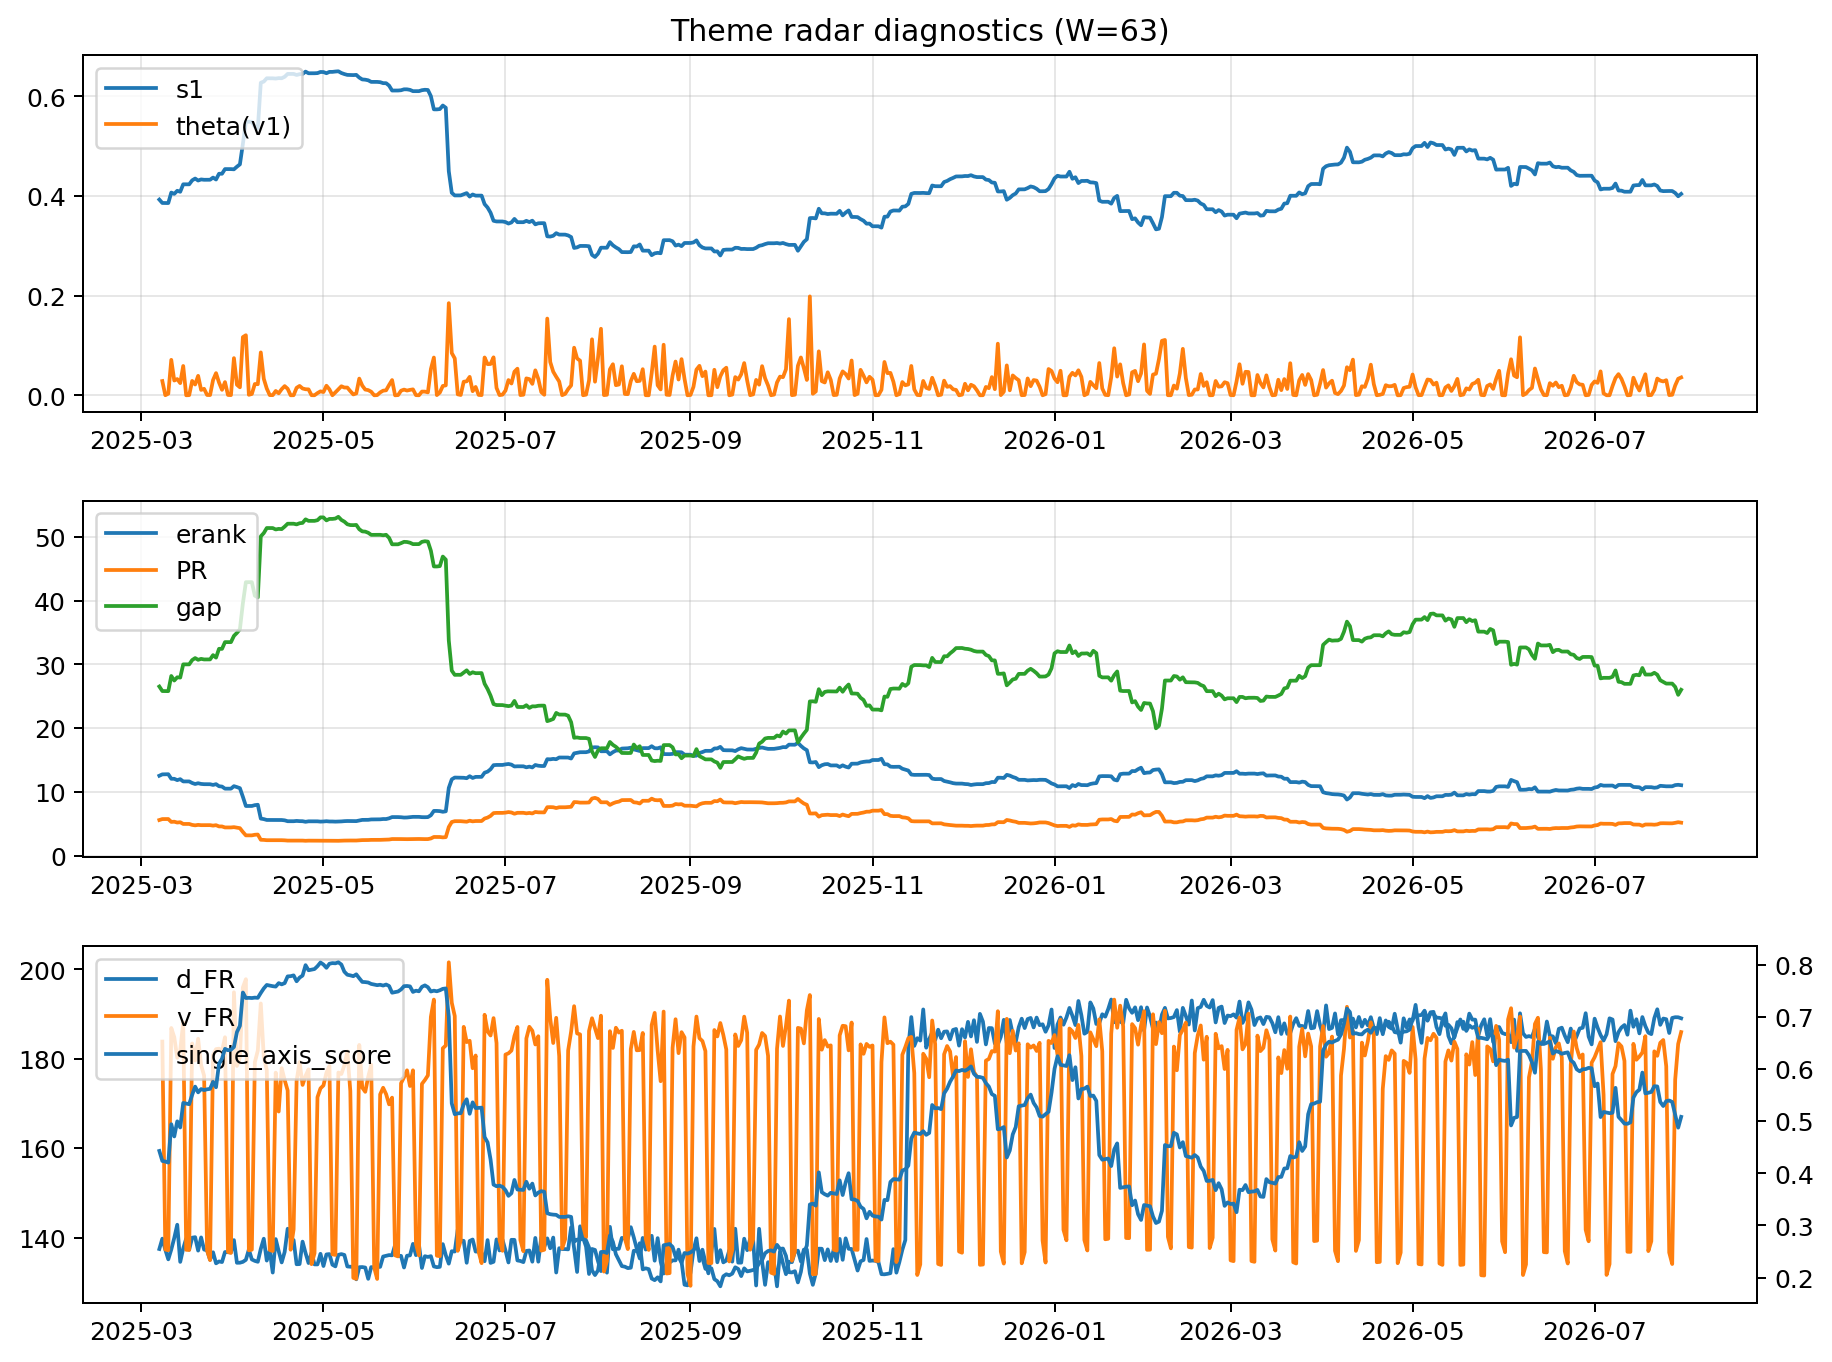
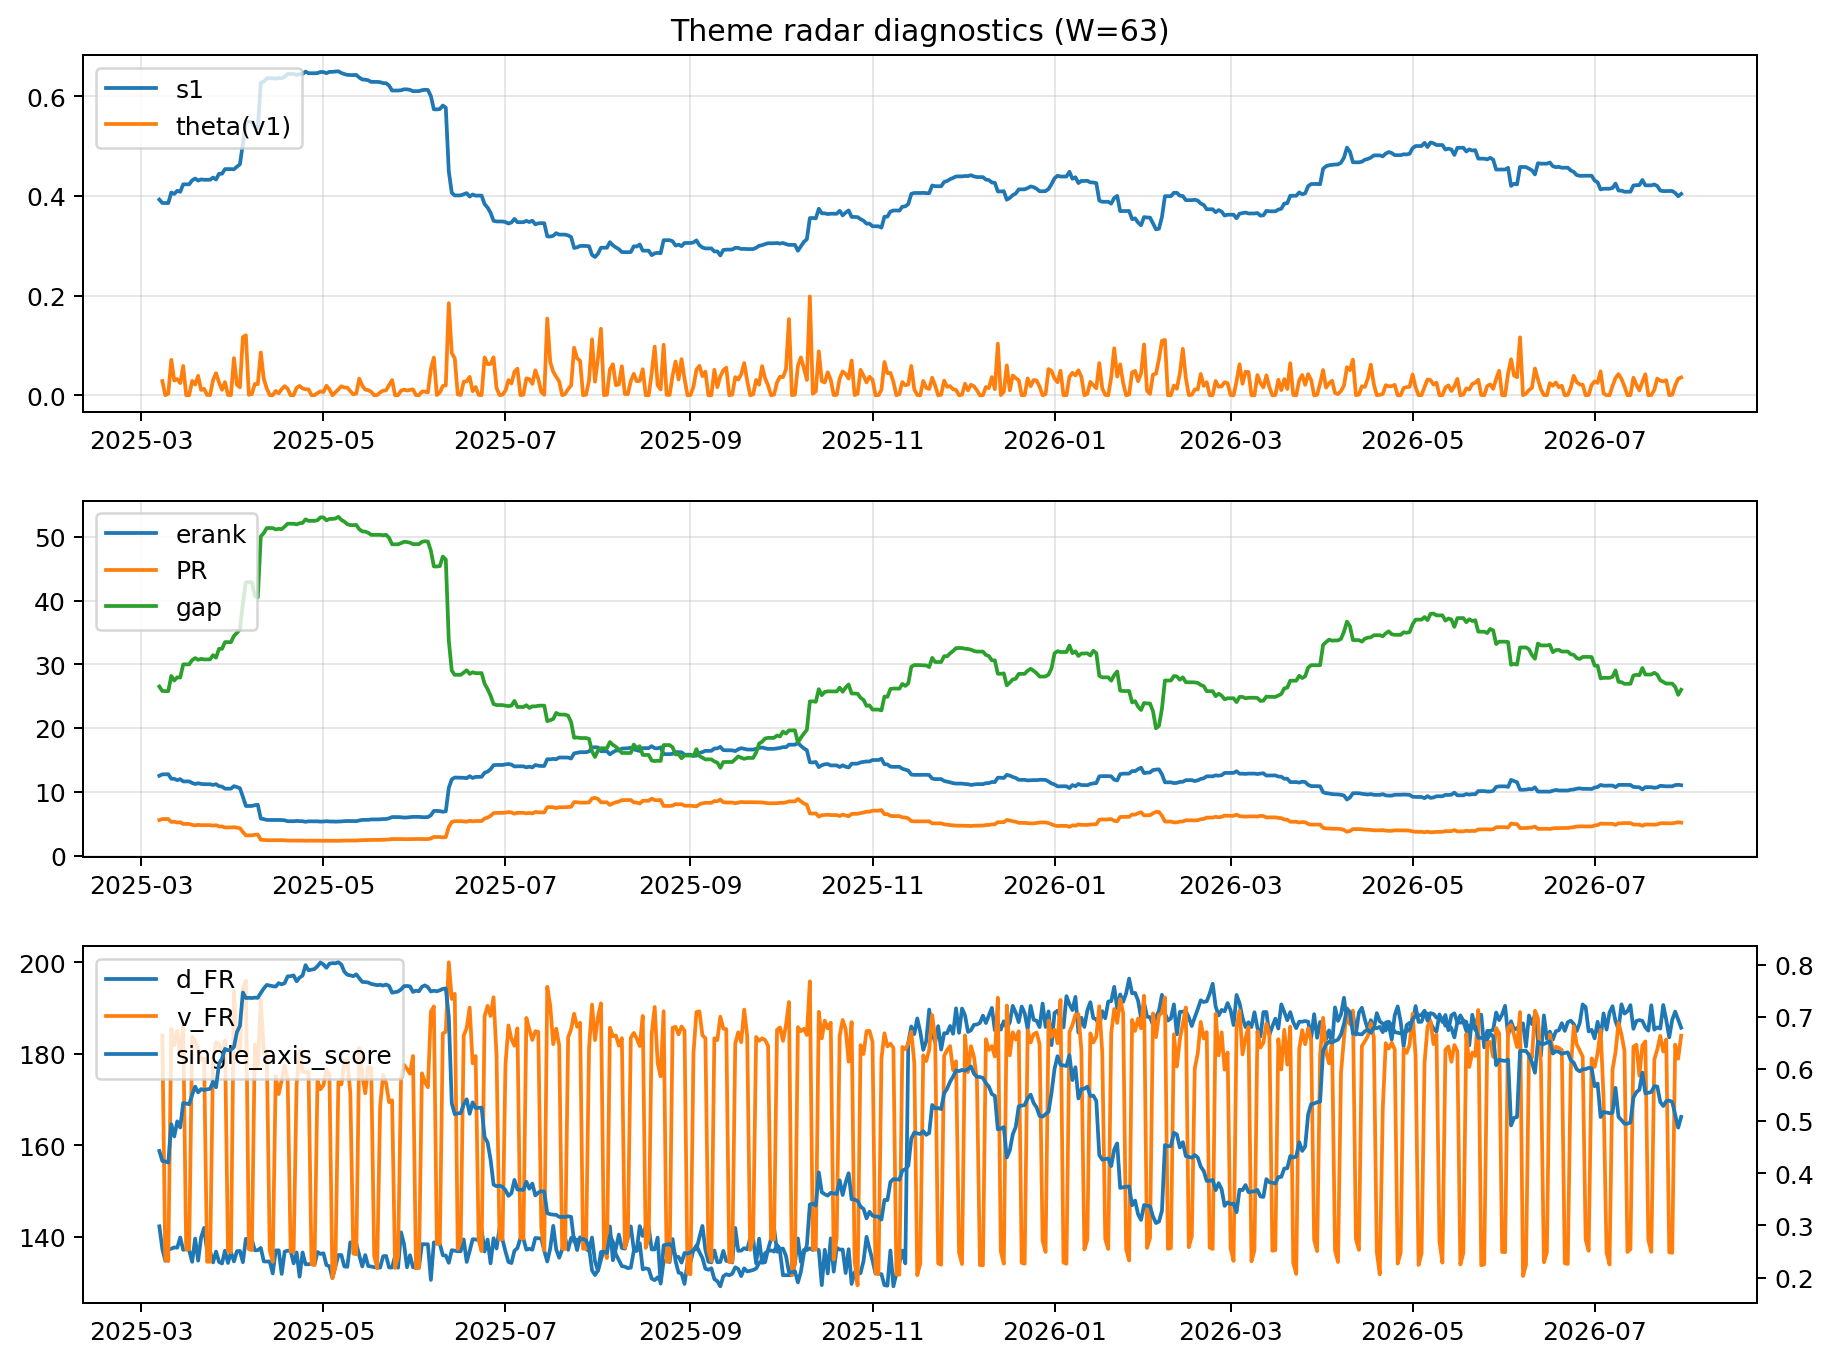
log: 2026-07-30 | sha256:5b0f640967c823253cfad788d76549734943c07d50d826841c34955182705260

diff --git a/logs/2026-07-30.md b/logs/2026-07-30.md
@@ -3,43 +3,43 @@
 ![diagnostic W63](../assets/diagnostic/2026-07-30_W63.png)
 
 ## Leaders (v1) — W=63
-- **Nuclear_Uranium** (0.0877910926515494)
-- Semis (0.0678350221947165)
-- Quantum (0.0570041390336679)
+- **Nuclear_Uranium** (0.087791089507647)
+- Semis (0.0678350178955152)
+- Quantum (0.0570041394321066)
 
 ## Challengers — W=63
-**v2:** MegaCap_AI (0.087351447988529), Semis (0.0857894162182824), Rates (0.0670748935433208)
-**v3:** Software_Cloud (0.0969037502427042), DataCenter_Infra (0.073092811585559), Grid_Power (0.0640468747907977)
+**v2:** MegaCap_AI (0.0873514404763301), Semis (0.0857894168016745), Rates (0.0670749260861705)
+**v3:** Software_Cloud (0.0969037668385524), DataCenter_Infra (0.0730928101626049), Grid_Power (0.0640468741522291)
 
 ## Migration (20D slope) — W=63
 **Top risers:**
-- axis_Quantum: 0.000403272218945
-- axis_Crypto: 0.0003033846307922
-- axis_Sector_RealEstate: 0.0002742688944861
-- axis_Semis: 0.0002258593771398
-- axis_Sector_Utilities: 0.0002067332488671
-- axis_Space: 0.0001886830005141
-- axis_Nuclear_Uranium: 0.0001869287359261
-- axis_Metals: 0.0001332536889828
-- axis_Sector_Health: 0.0001257017495169
-- axis_Critical_Minerals: 0.0001100974437647
+- axis_Quantum: 0.0004032723980842
+- axis_Crypto: 0.0003033842857691
+- axis_Sector_RealEstate: 0.0002742688809631
+- axis_Semis: 0.0002258594184702
+- axis_Sector_Utilities: 0.0002067332258309
+- axis_Space: 0.0001886830443347
+- axis_Nuclear_Uranium: 0.0001869286721007
+- axis_Metals: 0.0001332538886041
+- axis_Sector_Health: 0.0001257017017623
+- axis_Critical_Minerals: 0.0001100976491162
 
 **Top fallers:**
-- axis_USD: -9.832495060362764e-05
-- axis_Sector_Energy: -0.0001113759804371
-- axis_Sector_Ind: -0.0001195611250615
-- axis_Defense: -0.0001559406855278
-- axis_Sector_ConsDisc: -0.0001801912075847
-- axis_Sector_Materials: -0.00022757355574
-- axis_Credit: -0.000232007615355
-- axis_Commodities: -0.0002955275833018
-- axis_DataCenter_Infra: -0.0004965727298184
-- axis_Rates: -0.0007110134781968
+- axis_USD: -9.832491238402448e-05
+- axis_Sector_Energy: -0.0001113759040877
+- axis_Sector_Ind: -0.000119561099996
+- axis_Defense: -0.0001559405742753
+- axis_Sector_ConsDisc: -0.0001801911479623
+- axis_Sector_Materials: -0.0002275734610922
+- axis_Credit: -0.0002320102340999
+- axis_Commodities: -0.0002955273767394
+- axis_DataCenter_Infra: -0.0004965726494965
+- axis_Rates: -0.0007110126828515
 
 ## Risk line (W=63)
-- s1: 0.4039745080917935
-- theta_v1: 0.0358382472772718
-- v_FR: 185.9473344933752
+- s1: 0.403974521562039
+- theta_v1: 0.0358382523550054
+- v_FR: 183.989169245562
 - single_axis_score: 0.508023483365949
 
 ## Interpretation
@@ -48,7 +48,7 @@
 - Action: Tomorrow watchlist: Quantum, Crypto, Sector_RealEstate, Semis, Sector_Utilities + v2_top1=MegaCap_AI
 - Action: Hedge note: normal correlation stability.
 
-- Percentiles (W=63 history): vfr_pct=0.82, theta_pct=0.75, s1_pct=0.44, score_pct=0.48.
+- Percentiles (W=63 history): vfr_pct=0.70, theta_pct=0.75, s1_pct=0.44, score_pct=0.48.
 
 ---
[2 lines of base64/hex data omitted]
